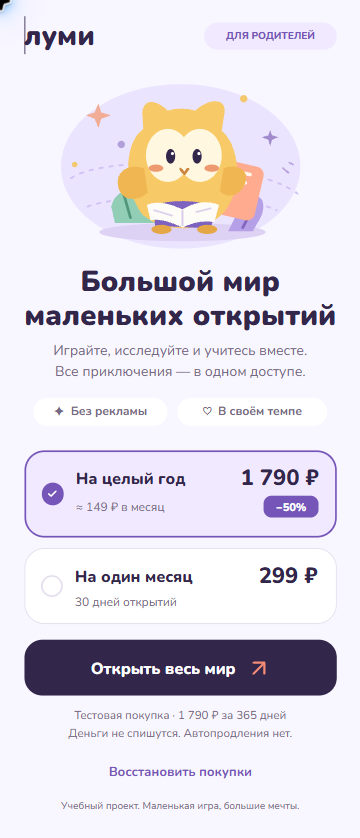
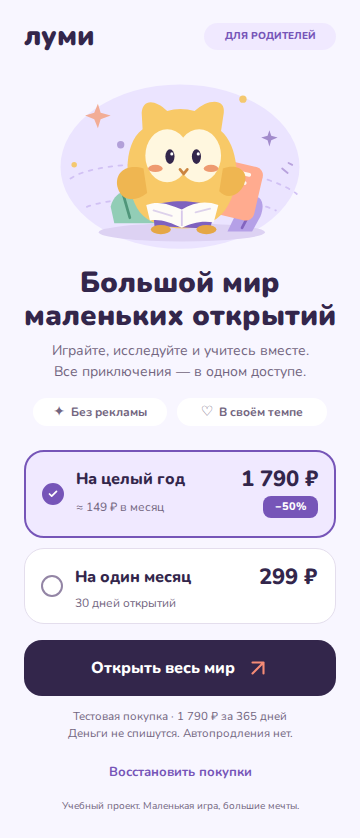
Record release verification and synchronize Figma evidence

diff --git a/docs/VERIFICATION.md b/docs/VERIFICATION.md
@@ -2,6 +2,14 @@
 
 13 октября 2026 года. Проверки выполняет Codex через CLI, независимых агентов и браузер; ручное тестирование человеком не заявляется.
 
+## Результат выпуска
+
+Функциональный commit `94b3a59`: [Quality checks — success](https://github.com/Echi4ok/lumi-paywall/actions/runs/38437937782), **117 тестов и 14 E2E-сценариев**, production build, PostgreSQL16, migration/check, runtime HTTP и dump/restore. [Проверка публичного deployment — success](https://github.com/Echi4ok/lumi-paywall/actions/runs/38438538765). Deployment `dpl_E2cyi7UYqhDymoAdEmXXMxyBb847` сначала проверен в staging (health/purchase/replay/restore), затем продвинут на `lumi-paywall.vercel.app`. Документация и PNG обновляются отдельным последующим commit без изменения runtime.
+
+Публичный HTTP smoke после promotion: 12 конкурентных запросов вернули одну квитанцию `0e3faffe-db86-4a4e-8804-52d77b756679`, повтор и restore совпали. Живой браузер подтвердил ширину390 без overflow, новый токен контраста и отсутствие console warning/error при открытии.
+
+Состав исходников deployment проверен отдельно: `.env` отсутствует, `.data`, `.nuxt`, `.output` и test artifacts не содержат загруженных файлов. Для CLI добавлен `.vercelignore`; одного `.gitignore` оказалось недостаточно.
+
 ## Воспроизводимые проверки
 
 - `npm run check`: Prettier, ESLint без предупреждений, strict TypeScript, модульные, SQL-интеграционные и mounted Vue component-тесты.
@@ -25,9 +33,11 @@ Smoke использует настоящие routes и БД: каталог, bo
 
 `npm run compare:design -- <figma.png> <browser.png>` сравнивает PNG одинакового размера без сдвига, масштабирования и масок. Выводит долю отличающихся пикселей по pixelmatch (threshold0.1, anti-alias exclusions), точное RGB-совпадение и MAE отдельно, пишет diff в test-results/design. Сглаживание шрифта зависит от движка/ОС. Нормированное среднее RGB-отклонение больше не выдаётся за доказательство требования «99% Pixel Perfect».
 
+Для актуальных main PNG390×838: pixelmatch отмечает **4010 пикселей (1.227%)** как различающиеся; точное RGB-совпадение —92.165%, MAE—2.585/255. Геометрия, токены и иконки сверены и исправлены, оставшаяся видимая разница преимущественно в растеризации текста. Строгий численный порог99% этим сравнением **не подтверждён**; округление или изменение tolerance ради прохождения не применяется.
+
 ## Остаточные ограничения
 
 - Физические WKWebView/Android WebView не проверены: desktop WebKit и mobile viewport не заменяют устройство.
 - Browser identity — анонимная связь. Очистка данных сайта и другое устройство теряют доступ; старый профиль до IDB-bootstrap может потерять связь и после удаления одной cookie.
 - Нет настоящих платежей, автопродления, аккаунтов, SLA, внешних alerting/uptime и проверенного production restore. Это не требовалось для учебного paywall.
-- `npm audit`: 0 critical, 11 high через две исходные advisory в tooling (`braces`, `node-forge`). Их нет в dependency manifest собранного Nitro. Принудительный downgrade Nuxt не применяется; upstream-обновления нужно отслеживать перед дальнейшим расширением. Это не заявление об отсутствии всех production-уязвимостей.
+- `npm audit`: 0 critical, 11 high через две исходные advisory в tooling ([braces](https://github.com/advisories/GHSA-vfj7-8cjw-p6xm), [node-forge](https://github.com/advisories/GHSA-86w9-cpqp-85rv)); patched versions пока не указаны. Их нет в dependency manifest собранного Nitro. Принудительный downgrade Nuxt не применяется; upstream-обновления нужно отслеживать перед дальнейшим расширением. Это не заявление об отсутствии всех production-уязвимостей.

diff --git a/design/README.md b/design/README.md
@@ -13,10 +13,12 @@
 
 **Основные параметры:** Nunito, локальный variable font и OFL-лицензия в `public/fonts`; отступы экрана 24 px; заголовок 29/33, описание 14/21; тарифы 88 и 76 px с промежутком 10 px; основная кнопка 56 px; восстановление 44 px. Цвета реализации: фон `#F8F6FF`, текст `#33264B`, вторичный текст `#726580`, акцент `#7655B8`, выделение `#F0E9FF`, коралловый `#F58B76`, граница невыбранного radio `#9385A5`.
 
-**Статус синхронизации после проверки контраста:** в Figma через официальный редактор обновлены переменная `muted` до `#726580` и границы невыбранных radio в трёх фреймах до `#9385A5`. `figma-390.png` повторно экспортирован из обновлённого основного фрейма. Остальные PNG пока сохраняют предыдущую палитру; у фрейма успеха прямые значения вторичного текста ещё `#756986`. Подключение редактора прервалось до завершения этих правок и экспорта. Это ограничение проверочных материалов; в приложении все состояния используют исправленные токены.
+**Синхронизация после проверки контраста:** в Figma через официальный редактор обновлены переменная `muted` и прямые значения вторичного текста success до `#726580`, границы невыбранных radio в трёх фреймах — до `#9385A5`. Значок ошибки заменён редактируемым SVG 18 × 18 px, три галочки выбранного тарифа — SVG из `OfferCard`; ширина success badge приведена к 191 px по измерению браузера. Все четыре `figma-*.png` повторно экспортированы из актуальных фреймов через штатный Export. `figma-editor-proof.png` показывает сохранённый макет в редакторе.
 
 При ширине 360–430 px карточки занимают доступную ширину, сохраняются порядок, типографика и размеры областей нажатия. На большом экране приложение находится в спокойной рамке 390 px. Safe-area добавляется к верхнему и нижнему отступам webview. Экран прокручивается целиком: условия покупки не перекрываются фиксированной кнопкой.
 
 Нативные radio inputs поддерживают Tab, стрелки и Space. У состояния успеха программный фокус на заголовке; ошибки и фоновые операции объявляются через live regions. Все анимации отключаются при `prefers-reduced-motion`. В интерфейсе прямо указано, что покупка тестовая и автопродления нет.
 
 Точный побитовый процент совпадения не заявляется: растеризация шрифта зависит от Figma и браузера. Размеры, расположение основных блоков, цвета и SVG проверяются отдельно от сглаживания текста.
+
+`browser-390.png` и `browser-success-390.png` — актуальная локальная production-сборка в Chromium Codex; 360/430/error — Chromium Linux из [CI](https://github.com/Echi4ok/lumi-paywall/actions/runs/38437050577). `live-proof.png` — опубликованное демо после promotion. Для нового сравнения: `npm run compare:design`. Итоговая метрика и ограничения записаны в [VERIFICATION.md](../docs/VERIFICATION.md).

diff --git a/docs/REVIEW.md b/docs/REVIEW.md
@@ -23,6 +23,7 @@
 4. Не было mounted-component/browser проверок, migration ledger, distributed limiter и полезного диагностического контекста. Эти механизмы добавлены с целевыми тестами.
 5. Ревью самих исправлений выявило отсутствовавший CI env, неправильную методику задержки cookie в E2E и активную кнопку retry во время restore. Все три исправлены; тест задерживает реальный Set-Cookie, используя Node fetch вне browser cookie jar.
 6. Readiness первоначально повторяла полный аудит схемы на каждый запрос. Проверка ограничена коротким кешем и singleflight; окно устаревания явно описано в runbook.
+7. Проверка исходников Vercel обнаружила локальные файлы в пакете CLI-деплоя. Добавлен `.vercelignore`; новая опубликованная сборка проверена отдельно: `.env` не загружен, локальная БД, кеши и тестовые артефакты исключены.
 
 Исправления первого ревью также сохранены: срок cookie продлевается при покупке/restore, попытки разделены по тарифам, транспорт имеет общий deadline, SESSION_REQUIRED объясняется пользователю, повторная загрузка сохраняет выбранный тариф.
 
